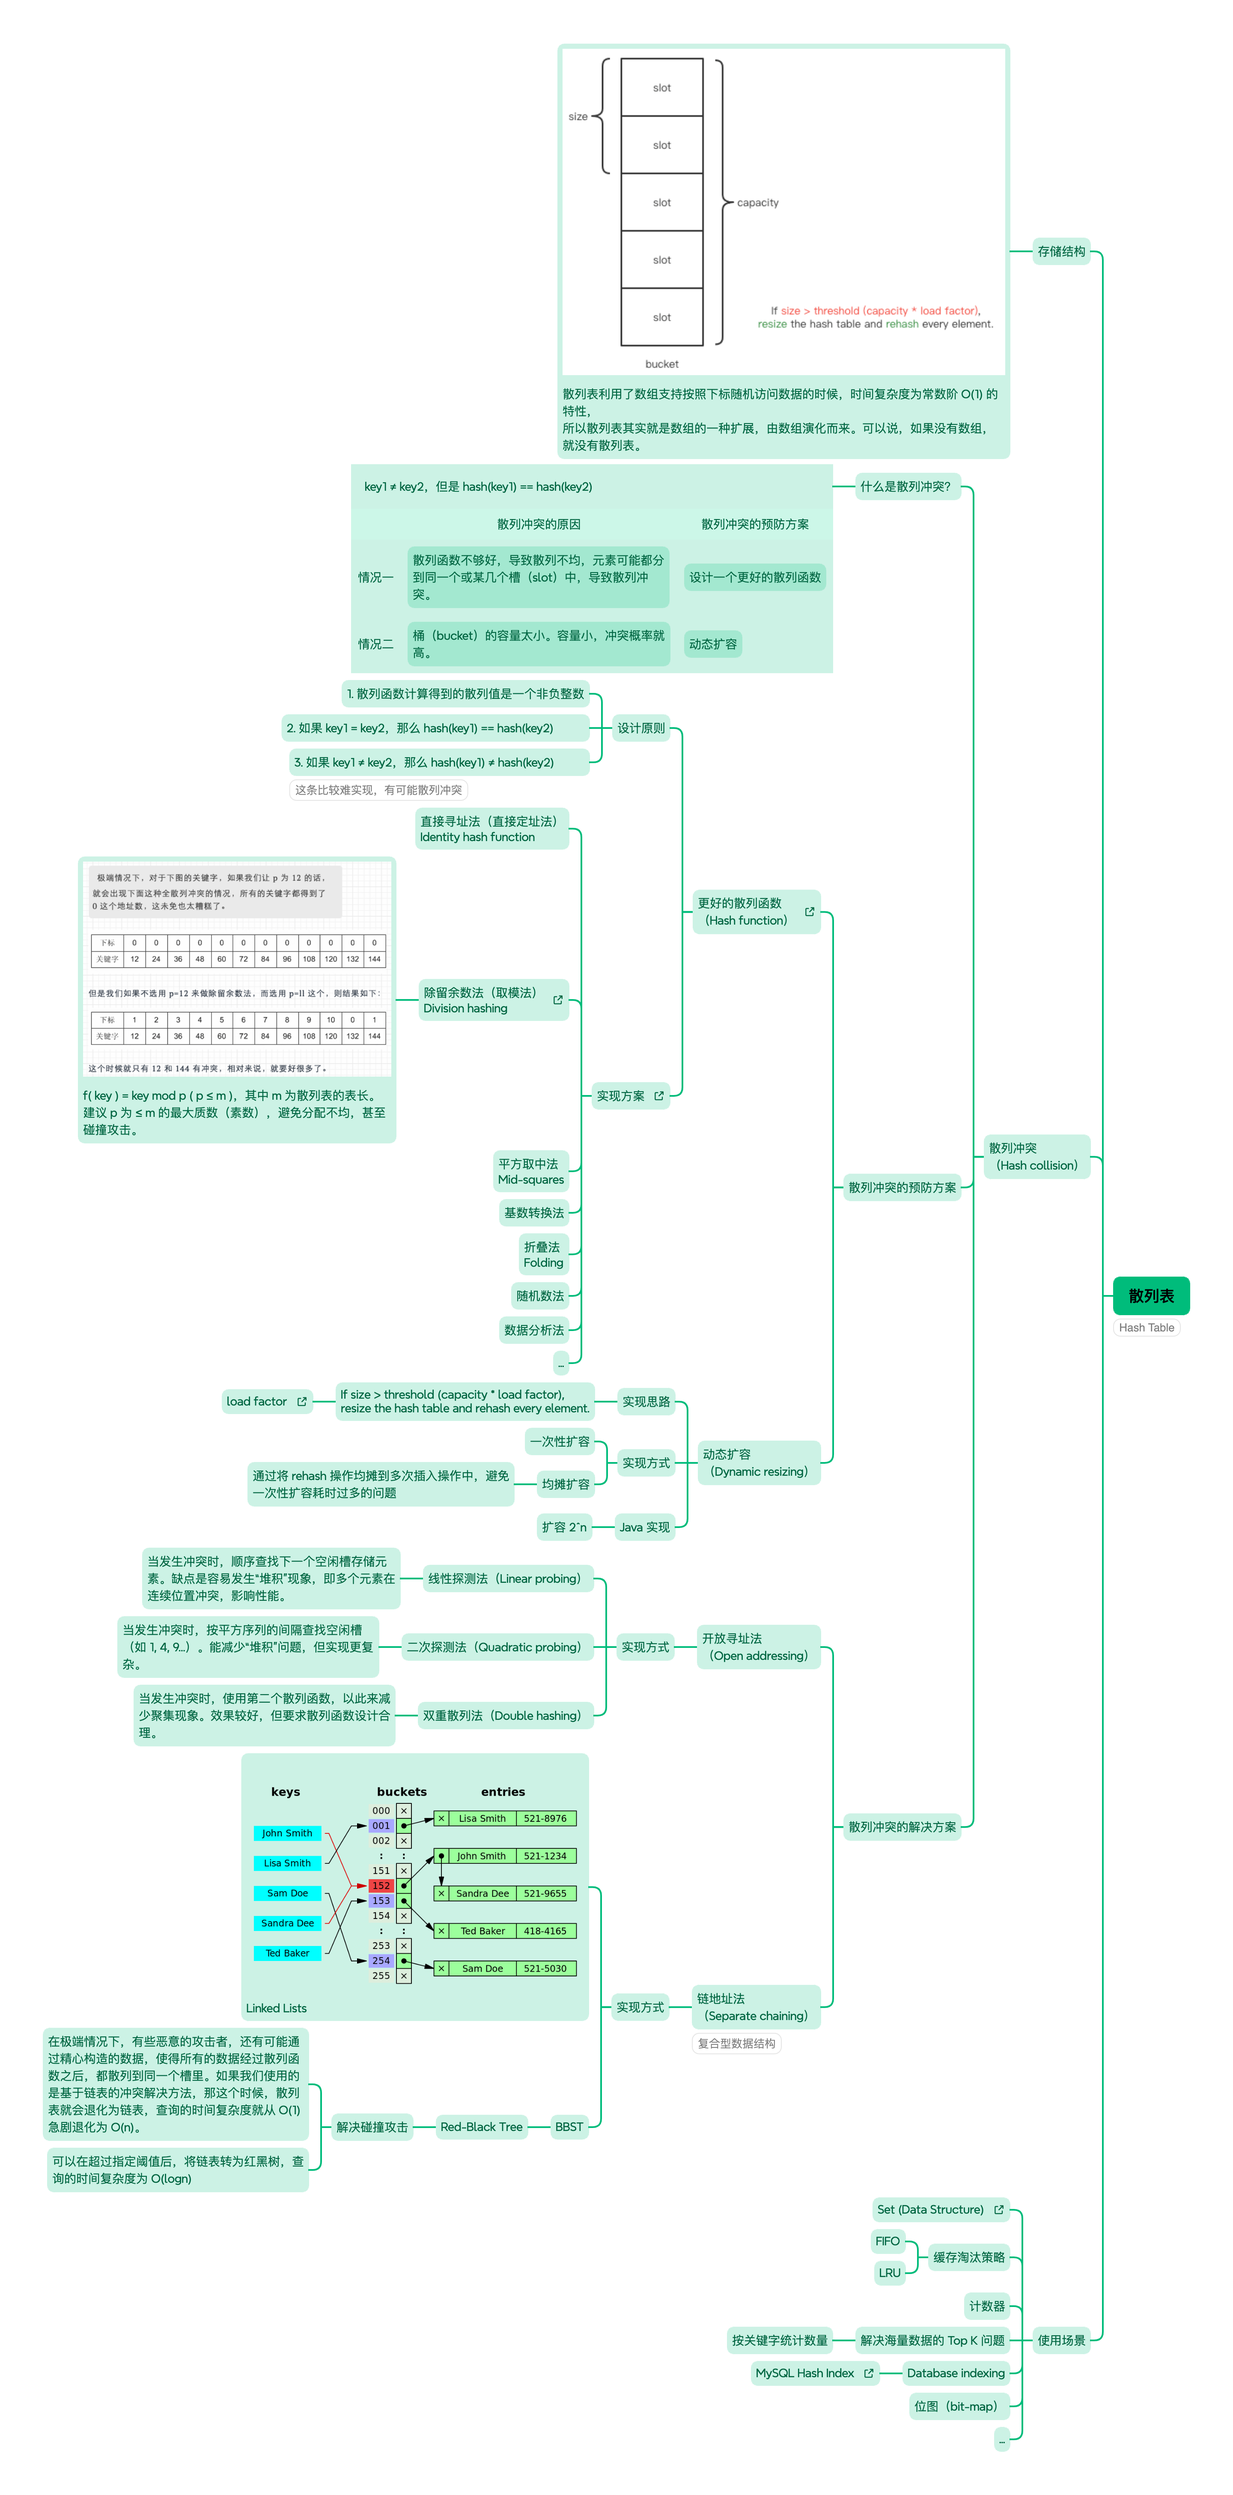
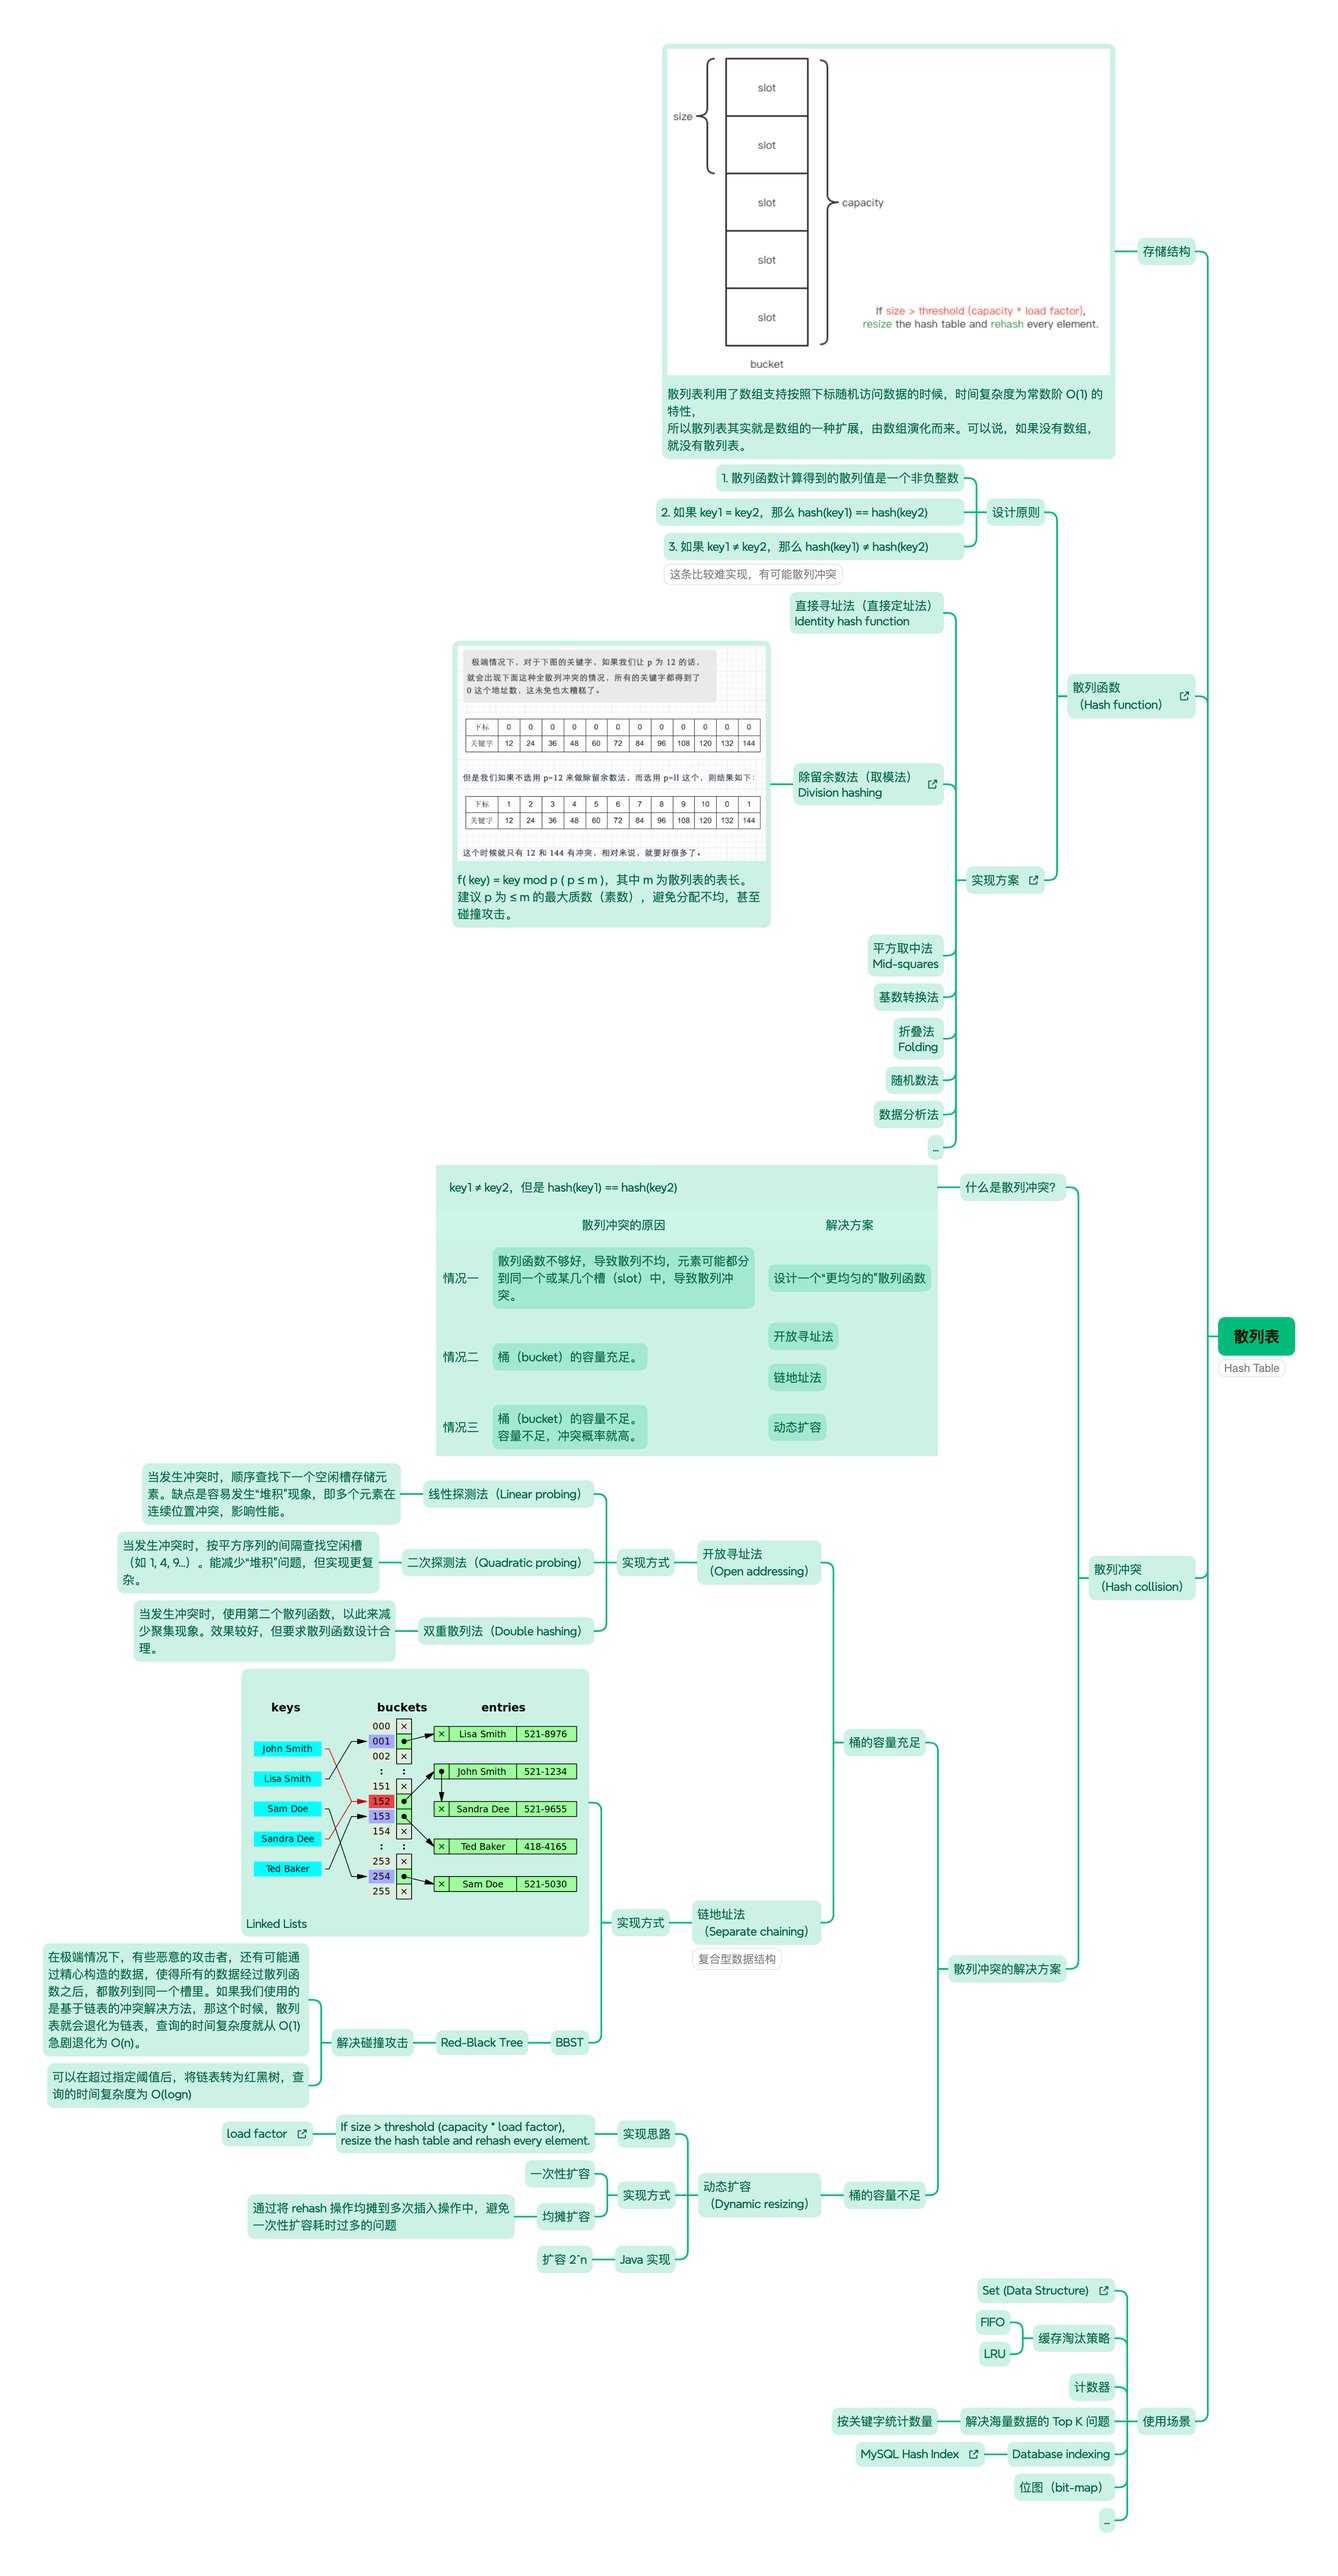
补充散列表

diff --git a/source/_posts/java-collections-hashmap.md b/source/_posts/java-collections-hashmap.md
@@ -17,7 +17,7 @@ typora-root-url: ..
 - 理想情况下，应用的散列函数使每个 `key` 与散列地址是一一对应的，但在实际应用中，这种情况很少出现。设有散列函数 `H` 和 `key1`、`key2`，若 `key1 ≠ key2`，但是 `H(key1) = H(key2)`，则称这种现象为**散列沖突（Hash collision）**，且称 `key1`、`key2`是相对于 `H` 的**同义词**。
 - 因为，散列函数是从 `key` 集合到地址集合的映像，所以在一般情况下，冲突只能尽可能减少而不能完全避免。因此，采用散列技术时需要考虑两个问题：
   1. 如何构造（选择）“均匀的” 散列函数？
-  2. 用什么方法有效地解決冲突？
+  2. 用什么方法 “有效地” 解決散列冲突？
 
 ![HashTable Keynote](/img/data-structure/hashtable/hashtable_keynote.png)
 
